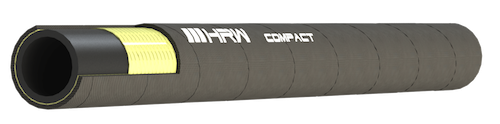
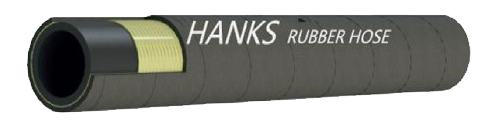
images

diff --git a/protected/views/products/hydraulic.php b/protected/views/products/hydraulic.php
@@ -317,8 +317,8 @@
 
 											<div class="text-center  ">
 												<img class="" oncontextmenu="return false;"
-													draggable="false" src="images/products/small_79095.png"
-													data-interchange='[images/products/small_79095.png,(default)]'
+													draggable="false" src="images/products/R2.png"
+													data-interchange='[images/products/R2.png,(default)]'
 													alt="mst21" />
 											</div>
 
@@ -333,7 +333,7 @@
 										<div id='stacks_in_79097_page11'
 											class='stacks_in com_joeworkman_stacks_foundation_header_stack'>
 
-											<h3 class="text-left   small-only-text-center  ">MST21</h3>
+											<h3 class="text-left   small-only-text-center  ">SAE 100 R17</h3>
 
 										</div>
 									</div>
@@ -343,7 +343,7 @@
 
 											<p class="text-left  small-only-text-center  "
 												draggable="false">
-												SAE100 R17<br />Isobaric 210 Bar - Smooth cover
+												SAE100 R17<br />Isobaric 210 Bar - wrapped cover
 											</p>
 
 										</div>
@@ -360,8 +360,8 @@
 											<p class="text-left  small-only-text-center  "
 												draggable="false">
 												Synthetic rubber inner tube<br />One or two high tensile
-												steel wire braid reinforcement<br />Synthetic rubber smooth
-												cover<br />
+												steel wire braid reinforcement<br />Synthetic rubber wrapped cover
+<br />
 											</p>
 
 										</div>
@@ -376,7 +376,7 @@
 											class='stacks_in com_joeworkman_stacks_foundation_image_stack'>
 
 											<div class="text-center small-only-text-center ">
-												<a href="images/resources/mst21.pdf" rel="external"> <img
+												<a href="images/resources/R2.pdf" rel="external"> <img
 													class="" oncontextmenu="return false;" draggable="false"
 													src="images/products/small_80003.png"
 													data-interchange='[images/products/small_79106.png,(default)]'
@@ -686,8 +686,8 @@
 
 											<div class="text-center  ">
 												<img class="" oncontextmenu="return false;"
-													draggable="false" src="images/products/small_79593.png"
-													data-interchange='[images/products/small_79593.png,(default)]'
+													draggable="false" src="images/products/R9.png"
+													data-interchange='[images/products/R9.png,(default)]'
 													alt="WXS4HP" />
 											</div>
 
@@ -742,7 +742,7 @@
 											class='stacks_in com_joeworkman_stacks_foundation_image_stack'>
 
 											<div class="text-center small-only-text-center ">
-												<a href="images/resources/txs4.pdf" rel="external"> <img
+												<a href="images/resources/R9.pdf" rel="external"> <img
 													class="" oncontextmenu="return false;" draggable="false"
 													src="images/products/small_80003.png"
 													data-interchange='[images/products/small_79604.png,(default)]'

diff --git a/protected/views/products/thermoplastic.php b/protected/views/products/thermoplastic.php
@@ -212,8 +212,8 @@
 
 											<div class="text-center  ">
 												<img class="" oncontextmenu="return false;"
-													draggable="false" src="images/products/small_79854.png"
-													data-interchange='[images/products/small_79854.png,(default)]'
+													draggable="false" src="images/products/R7.png"
+													data-interchange='[images/products/R7.png,(default)]'
 													alt="tpr7nc" />
 											</div>
 
@@ -270,10 +270,10 @@
 											class='stacks_in com_joeworkman_stacks_foundation_image_stack'>
 
 											<div class="text-center small-only-text-center ">
-												<a href="images/resources/tpr7nc.pdf" rel="external"> <img
+												<a href="images/resources/R7.pdf" rel="external"> <img
 													class="" oncontextmenu="return false;" draggable="false"
-													src="images/products/small_79865.png"
-													data-interchange='[images/products/small_79865.png,(default)]'
+													src="images/products/small_80003.png"
+													data-interchange='[images/products/small_80003.png,(default)]'
 													alt="pdf" />
 												</a>
 											</div>
@@ -301,8 +301,8 @@
 
 											<div class="text-center  ">
 												<img class="" oncontextmenu="return false;"
-													draggable="false" src="images/products/small_79896.png"
-													data-interchange='[images/products/small_79896.png,(default)]'
+													draggable="false" src="images/products/R8.png"
+													data-interchange='[images/products/R8.png,(default)]'
 													alt="tpr7nc" />
 											</div>
 
@@ -359,10 +359,10 @@
 											class='stacks_in com_joeworkman_stacks_foundation_image_stack'>
 
 											<div class="text-center small-only-text-center ">
-												<a href="images/resources/tpr8nc.pdf" rel="external"> <img
+												<a href="images/resources/R8.pdf" rel="external"> <img
 													class="" oncontextmenu="return false;" draggable="false"
-													src="images/products/small_79907.png"
-													data-interchange='[images/products/small_79907.png,(default)]'
+													src="images/products/small_80003.png"
+													data-interchange='[images/products/small_80003.png,(default)]'
 													alt="pdf" />
 												</a>
 											</div>

diff --git a/protected/views/products/superbraid.php b/protected/views/products/superbraid.php
@@ -210,10 +210,10 @@
 														class='stacks_in com_joeworkman_stacks_foundation_image_stack'>
 
 														<div class="text-center  ">
-															<a href="../../resources/cxt1.pdf" rel="external"> <img
+															<a href="images/resources/R1.pdf" rel="external"> <img
 																class="" oncontextmenu="return false;" draggable="false"
-																src="images/products/small_90925.png"
-																data-interchange='[images/products/small_90925.png,(default)]'
+																src="images/products/R1.png"
+																data-interchange='[images/products/R1.png,(default)]'
 																alt="cxt1" />
 															</a>
 														</div>
@@ -247,7 +247,7 @@
 														class='stacks_in com_joeworkman_stacks_foundation_image_stack'>
 
 														<div class="text-center  ">
-															<a href="../../resources/cxt1.pdf" rel="external"> <img
+															<a href="images/resources/R1.pdf" rel="external"> <img
 																class="" oncontextmenu="return false;" draggable="false"
 																src="images/products/small_90918.png"
 																data-interchange='[images/products/small_90918.png,(default)]'
@@ -291,9 +291,9 @@
 														class='stacks_in com_joeworkman_stacks_foundation_image_stack'>
 
 														<div class="text-center  ">
-															<a href="../../resources/cxt2.pdf" rel="external"> <img
+															<a href="images/resources/R2.pdf" rel="external"> <img
 																class="" oncontextmenu="return false;" draggable="false"
-																src="images/products/small_90950.png"
+																src="images/products/R2.png"
 																data-interchange='[images/products/small_90950.png,(default)]'
 																alt="cxt2" />
 															</a>
@@ -328,7 +328,7 @@
 														class='stacks_in com_joeworkman_stacks_foundation_image_stack'>
 
 														<div class="text-center  ">
-															<a href="../../resources/cxt2.pdf" rel="external"> <img
+															<a href="images/resources/R2.pdf" rel="external"> <img
 																class="" oncontextmenu="return false;" draggable="false"
 																src="images/products/small_90919.png"
 																data-interchange='[images/products/small_90919.png,(default)]'
